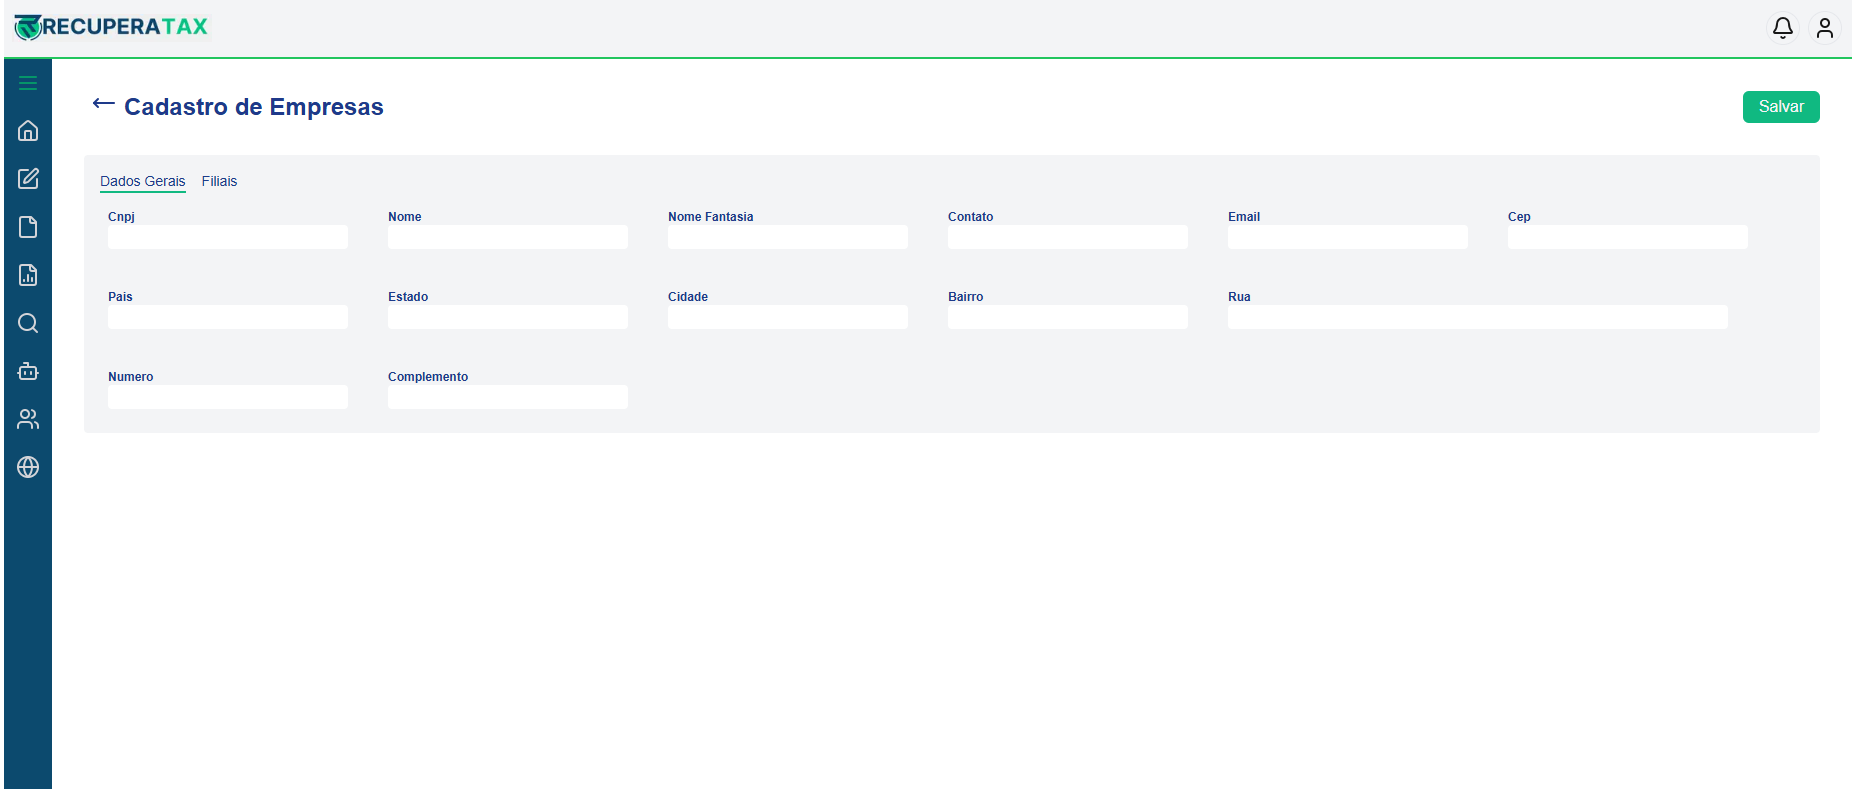
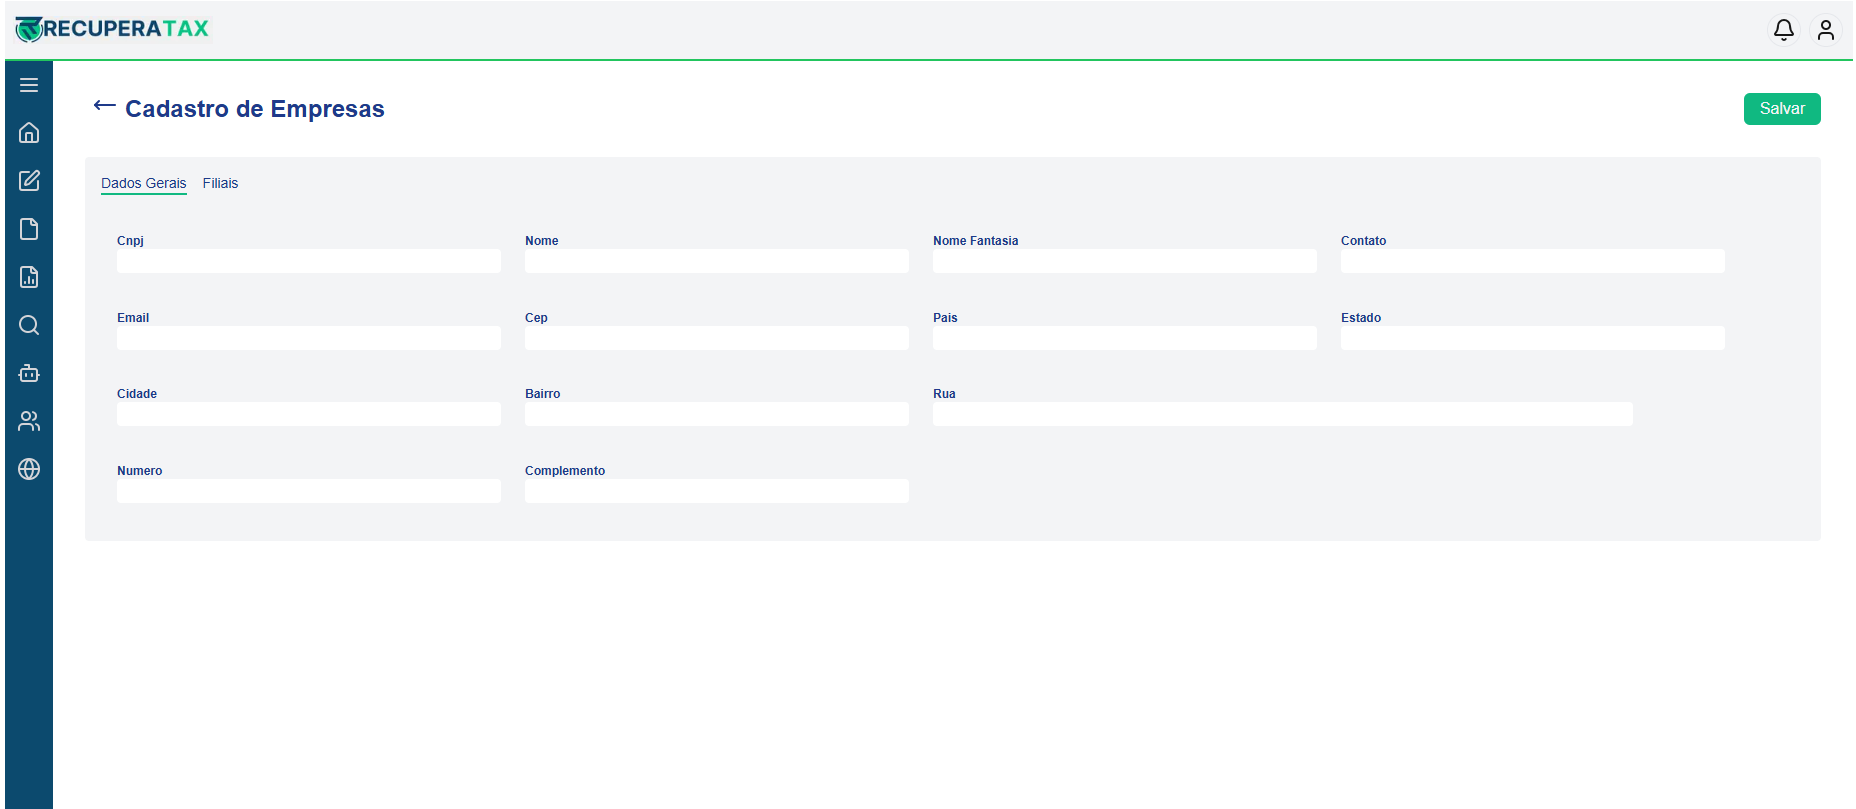
style: components

diff --git a/app/components/Cadastro/Cadastro.tsx b/app/components/Cadastro/Cadastro.tsx
@@ -12,15 +12,15 @@ interface FormularioProps {
 const CadastroEmpresa = ({ formData, setFormData, errors }: FormularioProps) => {
 
   return (
-    <form className="flex flex-col w-full bg-gray-100 p-4 rounded text-blue-900">
-      <div className="flex gap-4 text-sm">
+    <form className="flex flex-col w-full h-96 bg-gray-100 p-4 rounded text-blue-900">
+      <div className="flex gap-4 items-start text-sm">
         <span className="border-b-2 border-emerald-500">Dados Gerais</span>
         <span>Filiais</span>
       </div>
 
-      <div className="flex flex-wrap p-2 mt-2 text-sm gap-10">
+      <div className="flex flex-wrap justify-items-start just items-center h-full p-4 mt-4 text-sm gap-6">
         {Object.entries(formData).map(([key, value]) => (
-          <div key={key} className={`flex flex-col text-xs ${key === "rua" ? "w-[500px]" : "w-60"}`}>
+          <div key={key} className={`flex flex-col text-xs ${key === "rua" ? "w-[700px]" : "w-96"} `}>
             <label className="block capitalize font-bold">{key.replace(/([A-Z])/g, " $1")}</label>
             <input
               type={key === "email" ? "email" : "text"}

diff --git a/app/login/page.tsx b/app/login/page.tsx
@@ -45,7 +45,7 @@ const Login = () => {
     <div className="flex flex-col w-full h-screen bg-gray-300 justify-center items-center">
       <div className="flex flex-col w-[500px] h-[500px] justify-center items-center p-4 bg-gray-100 rounded-lg shadow-xl">
         <div className="flex flex-col justify-center items-center mb-10">
-          <div className="flex relative w-72 h-20">
+          <div className="flex relative w-96 h-20">
             <Image src={Logo} alt="logo" fill />
           </div>
           <span className="text-xl text-sky-700 mt-2">Seja bem vindo!</span>
@@ -79,8 +79,8 @@ const Login = () => {
         </div>
         <div className="flex flex-row w-full justify-between items-center px-6">
           <span>
-            <input name="remember" type="checkbox" onChange={handleChange} />
-            <span>Lembrar de mim</span>
+            <input name="remember" type="checkbox" onChange={handleChange} className="bg-gray-600" />
+            <span className="ml-1">Lembrar de mim</span>
           </span>
           <span>
             <Link rel="stylesheet" href="/login">Esqueci minha senha</Link>

diff --git a/README.md b/README.md
@@ -69,6 +69,9 @@ Agora, o projeto estará disponível em `http://localhost:3000`.
 ### Tela de Login
 ![Tela de Login](/public/Login.png)
 
+Usuário para teste: admin
+Senha: admin
+
 ### Empresas
 ![Empresas](/public/Empresas.png)
 
